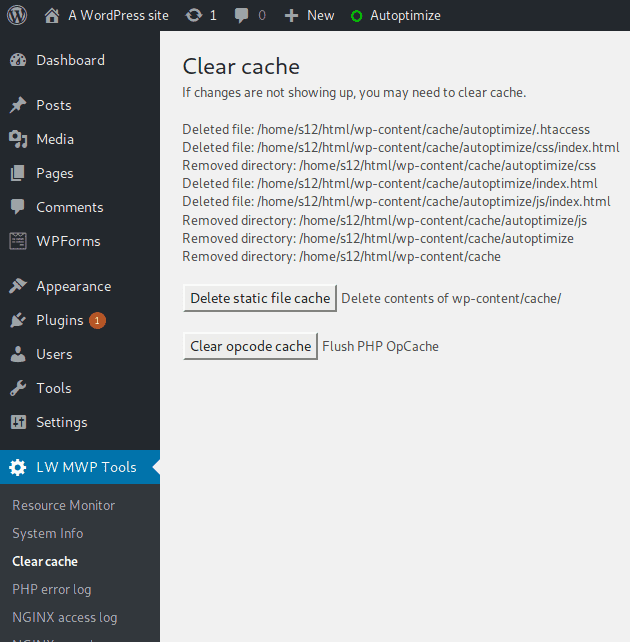
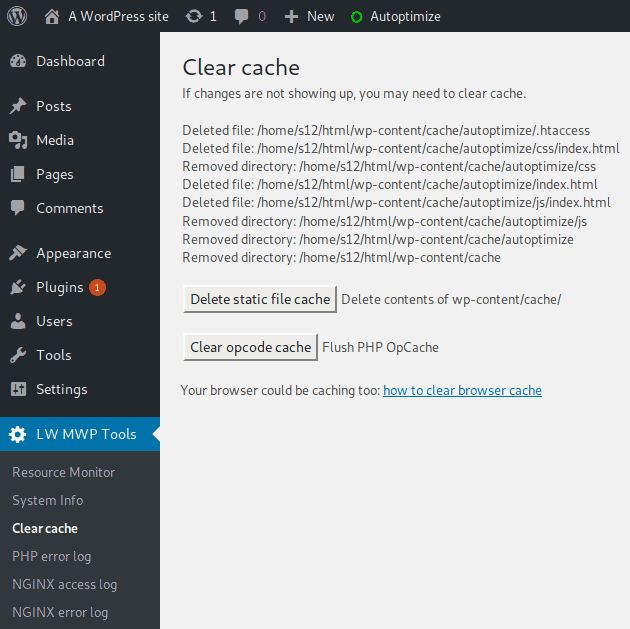
add browser cache link

diff --git a/lw-mwp-tools.php b/lw-mwp-tools.php
@@ -94,6 +94,7 @@ function lw_mwp_tools_cache(){
 
   echo "<br><input type=\"submit\" name=\"lwmwptools-static\" value=\"Delete static file cache\" /> Delete contents of wp-content/cache/<br><br>";
   echo "<input type=\"submit\" name=\"lwmwptools-opcache\" value=\"Clear opcode cache\" /> Flush PHP OpCache<br><br></form></div>";
+  echo "Your browser could be caching too: <a href=\"https://www.liquidweb.com/kb/clearing-your-browser-cache/\" target=\"_blank\">how to clear browser cache</a>";
 }
 
 function lw_mwp_tools_php(){ //generate the php error log page
